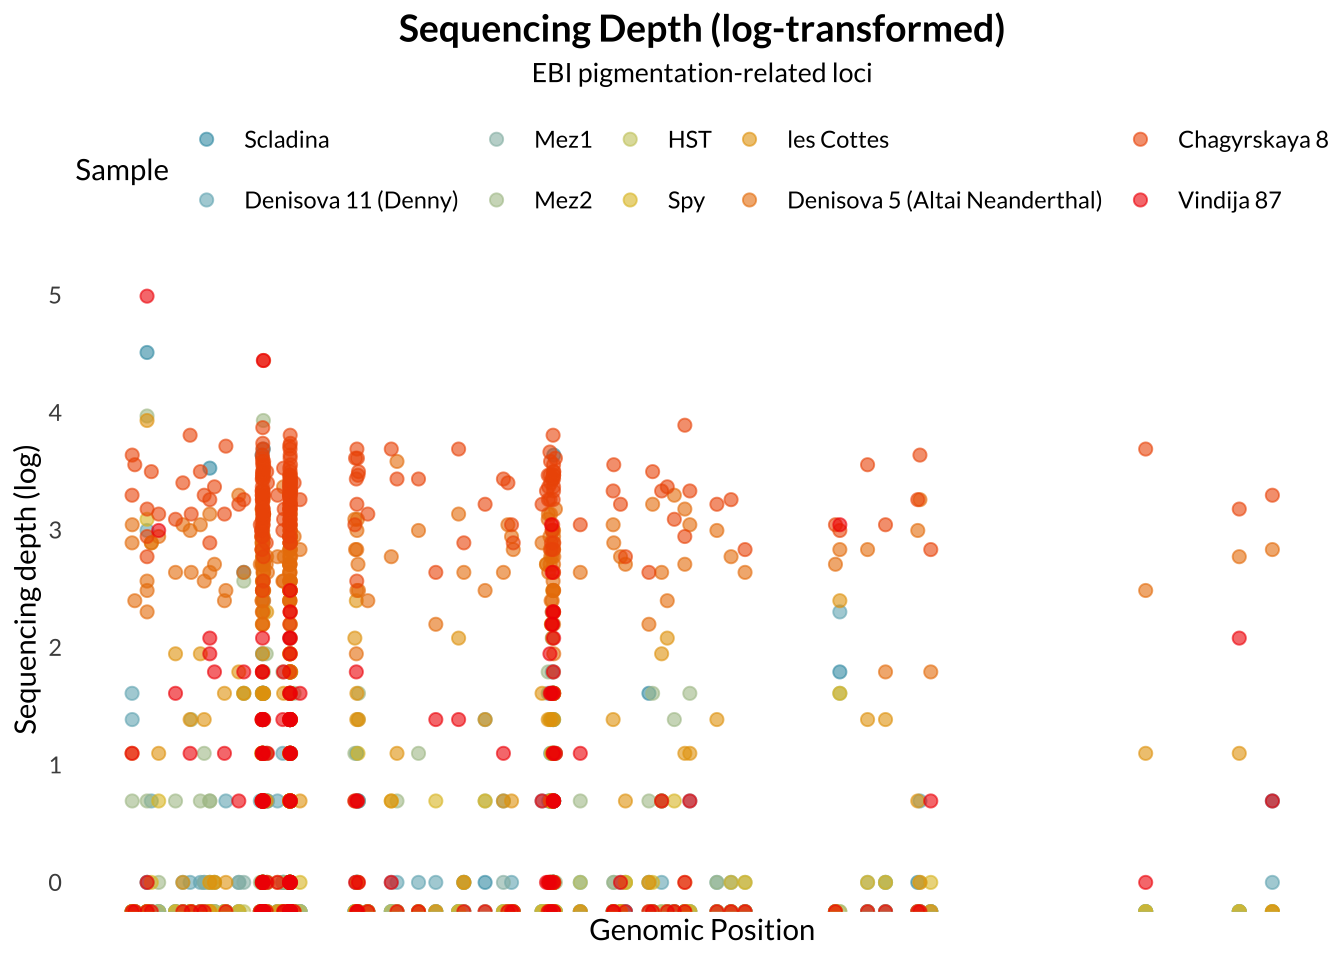
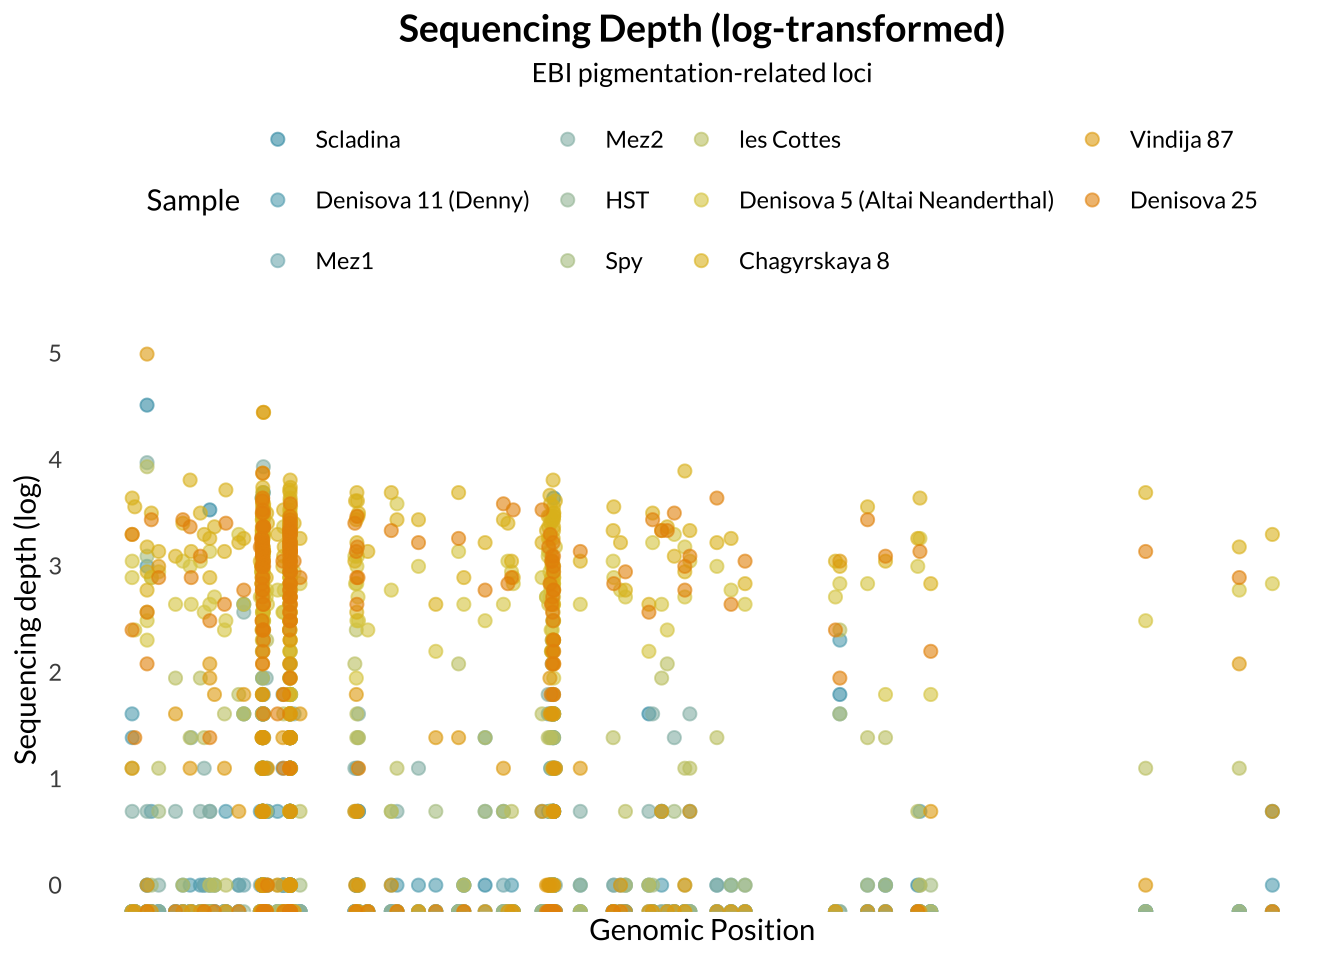
add Denisova 25

diff --git a/docs/introduction.html b/docs/introduction.html
@@ -519,15 +519,15 @@ project makes it easier to run your code on other machines.</p>
 <div class="panel panel-default">
 <div class="panel-heading">
 <p class="panel-title">
-<a data-toggle="collapse" data-parent="#workflowr-checks" href="#strongRepositoryversionstrongahrefhttpsgithubcomlilyhealdPAINTtreec6f38f2d802b5f7eb7144108a7b8ca7c7fd2d1eatargetblankc6f38f2a">
+<a data-toggle="collapse" data-parent="#workflowr-checks" href="#strongRepositoryversionstrongahrefhttpsgithubcomlilyhealdPAINTtree2cac6c93ba58fd24b993db1b41d14570c8088c32targetblank2cac6c9a">
 <span class="glyphicon glyphicon-ok text-success"
 aria-hidden="true"></span> <strong>Repository version:</strong>
-<a href="https://github.com/lilyheald/PAINT/tree/c6f38f2d802b5f7eb7144108a7b8ca7c7fd2d1ea" target="_blank">c6f38f2</a>
+<a href="https://github.com/lilyheald/PAINT/tree/2cac6c93ba58fd24b993db1b41d14570c8088c32" target="_blank">2cac6c9</a>
 </a>
 </p>
 </div>
 <div
[2 lines of base64/hex data omitted]
 class="panel-collapse collapse">
 <div class="panel-body">
 <p>
@@ -537,7 +537,7 @@ reproducibility.
 </p>
 <p>
 The results in this page were generated with repository version
-<a href="https://github.com/lilyheald/PAINT/tree/c6f38f2d802b5f7eb7144108a7b8ca7c7fd2d1ea" target="_blank">c6f38f2</a>.
+<a href="https://github.com/lilyheald/PAINT/tree/2cac6c93ba58fd24b993db1b41d14570c8088c32" target="_blank">2cac6c9</a>.
 See the <em>Past versions</em> tab to see a history of the changes made
 to the R Markdown and HTML files.
 </p>
@@ -558,11 +558,11 @@ Ignored files:
     Ignored:    data/neo_uvi.csv
 
 Untracked files:
-    Untracked:  data/vindija87_depth.txt
+    Untracked:  analysis/figure/
+    Untracked:  data/den25_depth.txt
 
 Unstaged changes:
     Modified:   analysis/introduction.Rmd
-    Modified:   data/.DS_Store
 
 </code></pre>
 <p>
@@ -607,6 +607,40 @@ Message
 </tr>
 </thead>
 <tbody>
+<tr>
+<td>
+Rmd
+</td>
+<td>
+<a href="https://github.com/lilyheald/PAINT/blob/2cac6c93ba58fd24b993db1b41d14570c8088c32/analysis/introduction.Rmd" target="_blank">2cac6c9</a>
+</td>
+<td>
+Lily Heald
+</td>
+<td>
+2026-01-14
+</td>
+<td>
+add vindija 87
+</td>
+</tr>
+<tr>
+<td>
+html
+</td>
+<td>
+<a href="https://rawcdn.githack.com/lilyheald/PAINT/2cac6c93ba58fd24b993db1b41d14570c8088c32/docs/introduction.html" target="_blank">2cac6c9</a>
+</td>
+<td>
+Lily Heald
+</td>
+<td>
+2026-01-14
+</td>
+<td>
+add vindija 87
+</td>
+</tr>
 <tr>
 <td>
 Rmd
@@ -1256,7 +1290,7 @@ Lily Heald
 </div>
 <div id="sequencing-coverage" class="section level1">
 <h1>Sequencing coverage</h1>
-<pre class="r"><code>wes_samples &lt;- wes_palette(&quot;Zissou1&quot;, 10, type = &quot;continuous&quot;)
+<pre class="r"><code>wes_samples &lt;- wes_palette(&quot;Zissou1&quot;, 15, type = &quot;continuous&quot;)
 
 ggplot(depth_all, aes(x = Position, y = Depth, color = Sample)) +
   geom_point(size = 2, alpha = 0.6) +
@@ -1300,6 +1334,17 @@ Date
 </tr>
 </thead>
 <tbody>
+<tr>
+<td>
+<a href="https://github.com/lilyheald/PAINT/blob/2cac6c93ba58fd24b993db1b41d14570c8088c32/docs/figure/introduction.Rmd/depth_viz-1.png" target="_blank">2cac6c9</a>
+</td>
+<td>
+Lily Heald
+</td>
+<td>
+2026-01-14
+</td>
+</tr>
 <tr>
 <td>
 <a href="https://github.com/lilyheald/PAINT/blob/c6f38f2d802b5f7eb7144108a7b8ca7c7fd2d1ea/docs/figure/introduction.Rmd/depth_viz-1.png" target="_blank">c6f38f2</a>
@@ -1413,6 +1458,17 @@ Date
 </tr>
 </thead>
 <tbody>
+<tr>
+<td>
+<a href="https://github.com/lilyheald/PAINT/blob/2cac6c93ba58fd24b993db1b41d14570c8088c32/docs/figure/introduction.Rmd/depth_viz_log-1.png" target="_blank">2cac6c9</a>
+</td>
+<td>
+Lily Heald
+</td>
+<td>
+2026-01-14
+</td>
+</tr>
 <tr>
 <td>
 <a href="https://github.com/lilyheald/PAINT/blob/c6f38f2d802b5f7eb7144108a7b8ca7c7fd2d1ea/docs/figure/introduction.Rmd/depth_viz_log-1.png" target="_blank">c6f38f2</a>
